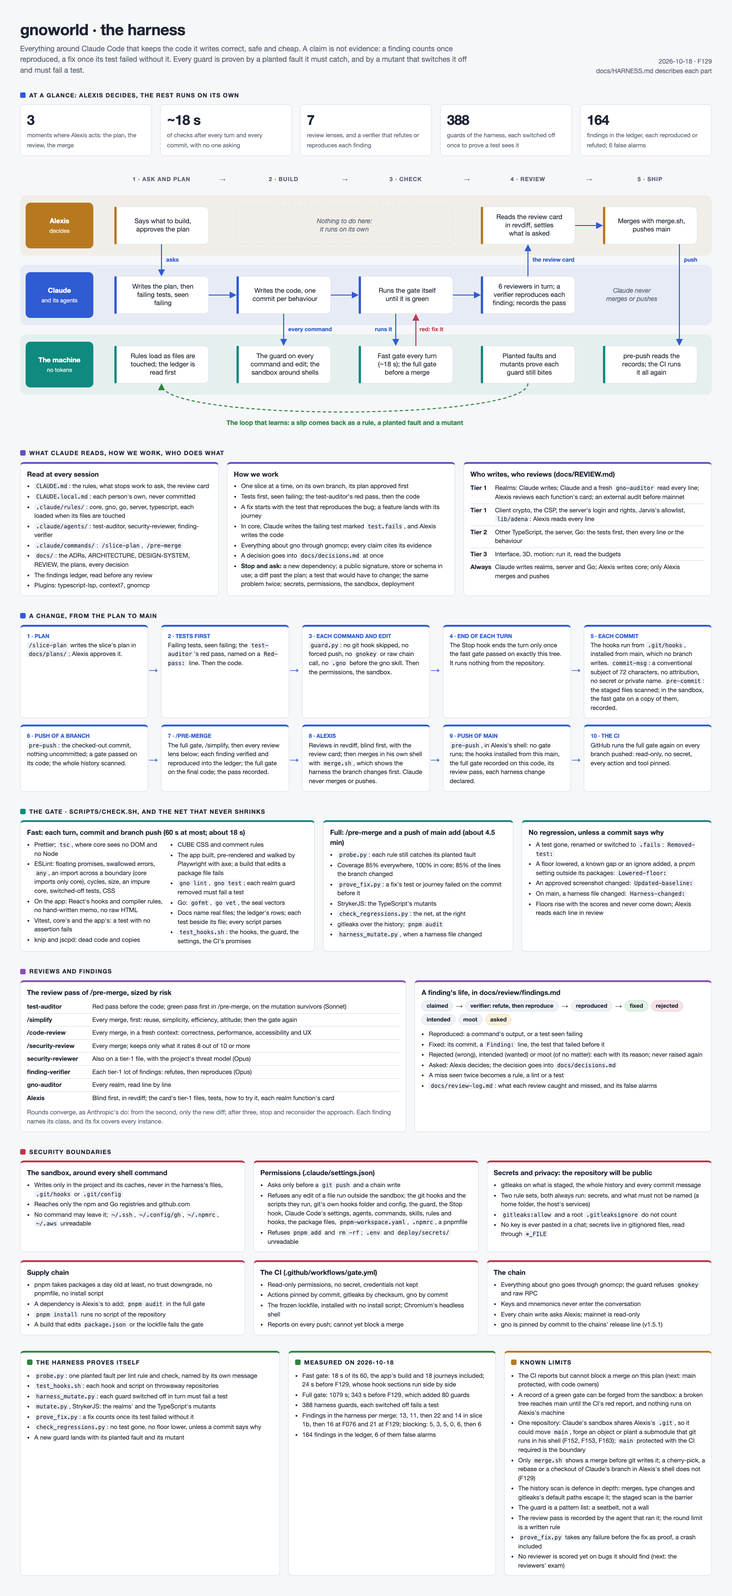
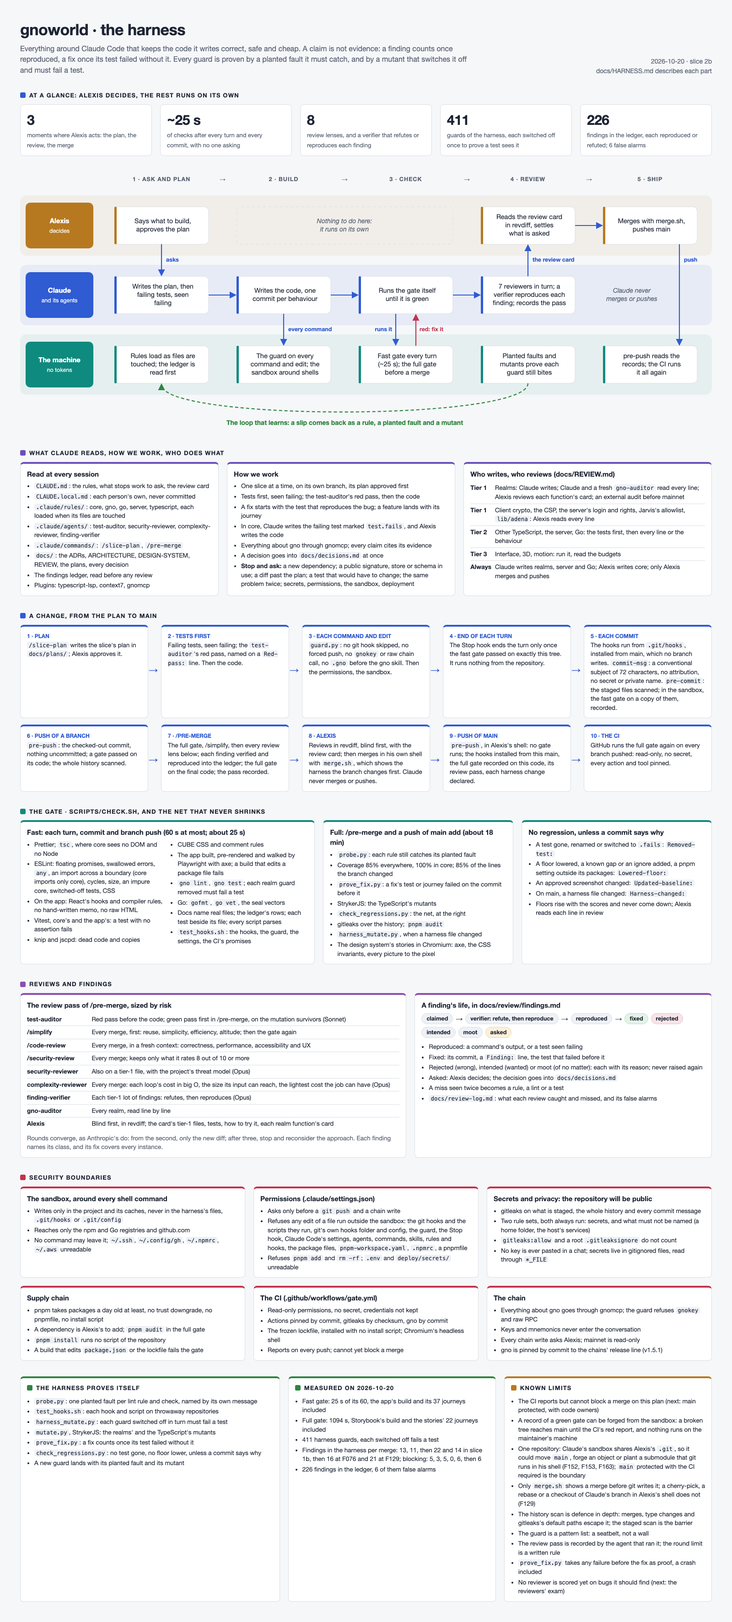
docs(harness): the complexity lens and today's measures in the picture
The picture and HARNESS.md gain the complexity-reviewer (8 lenses, 7
reviewers), and the measures of 2026-10-20: the fast gate 25 s with 37
journeys, the full gate 1094 s with the stories and 411 guards, 226
findings. HARNESS.md's merge step was wrong: /simplify runs at every
merge, not only a slice's last, and /security-review was missing. The
full gate's card said about 4.5 min, true before F129; it is about 18.

diff --git a/docs/harness.html b/docs/harness.html
@@ -242,19 +242,19 @@
           it must catch, and by a mutant that switches it off and must fail a test.
         </p>
       </div>
-      <div class="asof">2026-10-18 · F129<br />docs/HARNESS.md describes each part</div>
+      <div class="asof">2026-10-20 · slice 2b<br />docs/HARNESS.md describes each part</div>
     </header>
 
     <section style="--accent: var(--flow)">
       <h2>At a glance: Alexis decides, the rest runs on its own</h2>
       <div class="grid numbers">
         <div class="number"><b>3</b><span>moments where Alexis acts: the plan, the review, the merge</span></div>
-        <div class="number"><b>~18 s</b><span>of checks after every turn and every commit, with no one asking</span></div>
-        <div class="number"><b>7</b><span>review lenses, and a verifier that refutes or reproduces each finding</span></div>
-        <div class="number"><b>388</b><span>guards of the harness, each switched off once to prove a test sees it</span></div>
-        <div class="number"><b>164</b><span>findings in the ledger, each reproduced or refuted; 6 false alarms</span></div>
+        <div class="number"><b>~25 s</b><span>of checks after every turn and every commit, with no one asking</span></div>
+        <div class="number"><b>8</b><span>review lenses, and a verifier that refutes or reproduces each finding</span></div>
+        <div class="number"><b>411</b><span>guards of the harness, each switched off once to prove a test sees it</span></div>
+        <div class="number"><b>226</b><span>findings in the ledger, each reproduced or refuted; 6 false alarms</span></div>
       </div>
-      <div class="glance"><svg viewBox="0 0 1512 584" role="img" aria-label="Alexis decides at three moments; Claude and its agents write and review; the machine checks every step; a slip becomes a new guard"><defs><marker id="head-a" viewBox="0 0 10 10" refX="8" refY="5" markerWidth="7" markerHeight="7" orient="auto"><path class="ha" d="M0,0 L10,5 L0,10 z"/></marker><marker id="head-r" viewBox="0 0 10 10" refX="8" refY="5" markerWidth="7" markerHeight="7" orient="auto"><path class="hr" d="M0,0 L10,5 L0,10 z"/></marker><marker id="head-g" viewBox="0 0 10 10" refX="8" refY="5" markerWidth="7" markerHeight="7" orient="auto"><path class="hg" d="M0,0 L10,5 L0,10 z"/></marker></defs><rect class="band human" x="0" y="64" width="1512" height="132" rx="14"/><rect class="who human" x="12" y="80" width="148" height="100" rx="10"/><text class="wn" text-anchor="middle" dominant-baseline="middle"><tspan x="86" y="121">Alexis</tspan></text><text class="wr" text-anchor="middle" dominant-baseline="middle"><tspan x="86" y="143">decides</tspan></text><rect class="band agent" x="0" y="216" width="1512" height="132" rx="14"/><rect class="who agent" x="12" y="232" width="148" height="100" rx="10"/><text class="wn" text-anchor="middle" dominant-baseline="middle"><tspan x="86" y="273">Claude</tspan></text><text class="wr" text-anchor="middle" dominant-baseline="middle"><tspan x="86" y="295">and its agents</tspan></text><rect class="band machine" x="0" y="368" width="1512" height="132" rx="14"/><rect class="who machine" x="12" y="384" width="148" height="100" rx="10"/><text class="wn" text-anchor="middle" dominant-baseline="middle"><tspan x="86" y="425">The machine</tspan></text><text class="wr" text-anchor="middle" dominant-baseline="middle"><tspan x="86" y="447">no tokens</tspan></text><text class="ph" text-anchor="middle" dominant-baseline="middle"><tspan x="309" y="30">1 · ASK AND PLAN</tspan></text><text class="ph" text-anchor="middle" dominant-baseline="middle"><tspan x="576" y="30">2 · BUILD</tspan></text><text class="ph" text-anchor="middle" dominant-baseline="middle"><tspan x="443" y="30">→</tspan></text><text class="ph" text-anchor="middle" dominant-baseline="middle"><tspan x="843" y="30">3 · CHECK</tspan></text><text class="ph" text-anchor="middle" dominant-baseline="middle"><tspan x="710" y="30">→</tspan></text><text class="ph" text-anchor="middle" dominant-baseline="middle"><tspan x="1110" y="30">4 · REVIEW</tspan></text><text class="ph" text-anchor="middle" dominant-baseline="middle"><tspan x="977" y="30">→</tspan></text><text class="ph" text-anchor="middle" dominant-baseline="middle"><tspan x="1377" y="30">5 · SHIP</tspan></text><text class="ph" text-anchor="middle" dominant-baseline="middle"><tspan x="1244" y="30">→</tspan></text><rect class="box human" x="206" y="89" width="206" height="82" rx="10"/><rect class="bar human" x="206" y="89" width="5" height="82" rx="2"/><text class="t" text-anchor="middle" dominant-baseline="middle"><tspan x="312" y="121">Says what to build,</tspan><tspan x="312" y="139">approves the plan</tspan></text><rect class="free" x="473" y="89" width="473" height="82" rx="10"/><text class="m" text-anchor="middle" dominant-baseline="middle"><tspan x="709" y="121">Nothing to do here:</tspan><tspan x="709" y="139">it runs on its own</tspan></text><rect class="box human" x="1007" y="89" width="206" height="82" rx="10"/><rect class="bar human" x="1007" y="89" width="5" height="82" rx="2"/><text class="t" text-anchor="middle" dominant-baseline="middle"><tspan x="1113" y="112">Reads the review card</tspan><tspan x="1113" y="130">in revdiff, settles</tspan><tspan x="1113" y="148">what is asked</tspan></text><rect class="box human" x="1274" y="89" width="206" height="82" rx="10"/><rect class="bar human" x="1274" y="89" width="5" height="82" rx="2"/><text class="t" text-anchor="middle" dominant-baseline="middle"><tspan x="1380" y="121">Merges with merge.sh,</tspan><tspan x="1380" y="139">pushes main</tspan></text><rect class="box agent" x="206" y="241" width="206" height="82" rx="10"/><rect class="bar agent" x="206" y="241" width="5" height="82" rx="2"/><text class="t" text-anchor="middle" dominant-baseline="middle"><tspan x="312" y="264">Writes the plan, then</tspan><tspan x="312" y="282">failing tests, seen</tspan><tspan x="312" y="300">failing</tspan></text><rect class="box agent" x="473" y="241" width="206" height="82" rx="10"/><rect class="bar agent" x="473" y="241" width="5" height="82" rx="2"/><text class="t" text-anchor="middle" dominant-baseline="middle"><tspan x="579" y="273">Writes the code, one</tspan><tspan x="579" y="291">commit per behaviour</tspan></text><rect class="box agent" x="740" y="241" width="206" height="82" rx="10"/><rect class="bar agent" x="740" y="241" width="5" height="82" rx="2"/><text class="t" text-anchor="middle" dominant-baseline="middle"><tspan x="846" y="273">Runs the gate itself</tspan><tspan x="846" y="291">until it is green</tspan></text><rect class="box agent" x="1007" y="241" width="206" height="82" rx="10"/><rect class="bar agent" x="1007" y="241" width="5" height="82" rx="2"/><text class="t" text-anchor="middle" dominant-baseline="middle"><tspan x="1113" y="264">6 reviewers in turn; a</tspan><tspan x="1113" y="282">verifier reproduces each</tspan><tspan x="1113" y="300">finding; records the pass</tspan></text><text class="m" text-anchor="middle" dominant-baseline="middle"><tspan x="1337" y="273">Claude never</tspan><tspan x="1337" y="291">merges or pushes</tspan></text><rect class="box machine" x="206" y="393" width="206" height="82" rx="10"/><rect class="bar machine" x="206" y="393" width="5" height="82" rx="2"/><text class="t" text-anchor="middle" dominant-baseline="middle"><tspan x="312" y="416">Rules load as files are</tspan><tspan x="312" y="434">touched; the ledger is</tspan><tspan x="312" y="452">read first</tspan></text><rect class="box machine" x="473" y="393" width="206" height="82" rx="10"/><rect class="bar machine" x="473" y="393" width="5" height="82" rx="2"/><text class="t" text-anchor="middle" dominant-baseline="middle"><tspan x="579" y="416">The guard on every</tspan><tspan x="579" y="434">command and edit; the</tspan><tspan x="579" y="452">sandbox around shells</tspan></text><rect class="box machine" x="740" y="393" width="206" height="82" rx="10"/><rect class="bar machine" x="740" y="393" width="5" height="82" rx="2"/><text class="t" text-anchor="middle" dominant-baseline="middle"><tspan x="846" y="416">Fast gate every turn</tspan><tspan x="846" y="434">(~18 s); the full gate</tspan><tspan x="846" y="452">before a merge</tspan></text><rect class="box machine" x="1007" y="393" width="206" height="82" rx="10"/><rect class="bar machine" x="1007" y="393" width="5" height="82" rx="2"/><text class="t" text-anchor="middle" dominant-baseline="middle"><tspan x="1113" y="416">Planted faults and</tspan><tspan x="1113" y="434">mutants prove each</tspan><tspan x="1113" y="452">guard still bites</tspan></text><rect class="box machine" x="1274" y="393" width="206" height="82" rx="10"/><rect class="bar machine" x="1274" y="393" width="5" height="82" rx="2"/><text class="t" text-anchor="middle" dominant-baseline="middle"><tspan x="1380" y="416">pre-push reads the</tspan><tspan x="1380" y="434">records; the CI runs</tspan><tspan x="1380" y="452">it all again</tspan></text><path class="a" d="M309 171 V238" marker-end="url(#head-a)"/><text class="l" text-anchor="start" dominant-baseline="middle"><tspan x="319" y="206">asks</tspan></text><path class="a" d="M412 282 H470" marker-end="url(#head-a)"/><path class="a" d="M679 282 H737" marker-end="url(#head-a)"/><path class="a" d="M946 282 H1004" marker-end="url(#head-a)"/><path class="a" d="M576 323 V390" marker-end="url(#head-a)"/><text class="l" text-anchor="start" dominant-baseline="middle"><tspan x="586" y="358">every command</tspan></text><path class="a" d="M821 323 V390" marker-end="url(#head-a)"/><text class="l" text-anchor="end" dominant-baseline="middle"><tspan x="813" y="358">runs it</tspan></text><path class="r" d="M865 393 V326" marker-end="url(#head-r)"/><text class="lr" text-anchor="start" dominant-baseline="middle"><tspan x="873" y="358">red: fix it</tspan></text><path class="a" d="M1110 241 V174" marker-end="url(#head-a)"/><text class="l" text-anchor="start" dominant-baseline="middle"><tspan x="1120" y="206">the review card</tspan></text><path class="a" d="M1213 130 H1271" marker-end="url(#head-a)"/><path class="a" d="M1441 171 V390" marker-end="url(#head-a)"/><text class="l" text-anchor="start" dominant-baseline="middle"><tspan x="1451" y="206">push</tspan></text><path class="g" d="M1110 475 C1110 558 309 558 309 478" marker-end="url(#head-g)"/><text class="lg" text-anchor="middle" dominant-baseline="middle"><tspan x="709.5" y="562">The loop that learns: a slip comes back as a rule, a planted fault and a mutant</tspan></text></svg></div>
+      <div class="glance"><svg viewBox="0 0 1512 584" role="img" aria-label="Alexis decides at three moments; Claude and its agents write and review; the machine checks every step; a slip becomes a new guard"><defs><marker id="head-a" viewBox="0 0 10 10" refX="8" refY="5" markerWidth="7" markerHeight="7" orient="auto"><path class="ha" d="M0,0 L10,5 L0,10 z"/></marker><marker id="head-r" viewBox="0 0 10 10" refX="8" refY="5" markerWidth="7" markerHeight="7" orient="auto"><path class="hr" d="M0,0 L10,5 L0,10 z"/></marker><marker id="head-g" viewBox="0 0 10 10" refX="8" refY="5" markerWidth="7" markerHeight="7" orient="auto"><path class="hg" d="M0,0 L10,5 L0,10 z"/></marker></defs><rect class="band human" x="0" y="64" width="1512" height="132" rx="14"/><rect class="who human" x="12" y="80" width="148" height="100" rx="10"/><text class="wn" text-anchor="middle" dominant-baseline="middle"><tspan x="86" y="121">Alexis</tspan></text><text class="wr" text-anchor="middle" dominant-baseline="middle"><tspan x="86" y="143">decides</tspan></text><rect class="band agent" x="0" y="216" width="1512" height="132" rx="14"/><rect class="who agent" x="12" y="232" width="148" height="100" rx="10"/><text class="wn" text-anchor="middle" dominant-baseline="middle"><tspan x="86" y="273">Claude</tspan></text><text class="wr" text-anchor="middle" dominant-baseline="middle"><tspan x="86" y="295">and its agents</tspan></text><rect class="band machine" x="0" y="368" width="1512" height="132" rx="14"/><rect class="who machine" x="12" y="384" width="148" height="100" rx="10"/><text class="wn" text-anchor="middle" dominant-baseline="middle"><tspan x="86" y="425">The machine</tspan></text><text class="wr" text-anchor="middle" dominant-baseline="middle"><tspan x="86" y="447">no tokens</tspan></text><text class="ph" text-anchor="middle" dominant-baseline="middle"><tspan x="309" y="30">1 · ASK AND PLAN</tspan></text><text class="ph" text-anchor="middle" dominant-baseline="middle"><tspan x="576" y="30">2 · BUILD</tspan></text><text class="ph" text-anchor="middle" dominant-baseline="middle"><tspan x="443" y="30">→</tspan></text><text class="ph" text-anchor="middle" dominant-baseline="middle"><tspan x="843" y="30">3 · CHECK</tspan></text><text class="ph" text-anchor="middle" dominant-baseline="middle"><tspan x="710" y="30">→</tspan></text><text class="ph" text-anchor="middle" dominant-baseline="middle"><tspan x="1110" y="30">4 · REVIEW</tspan></text><text class="ph" text-anchor="middle" dominant-baseline="middle"><tspan x="977" y="30">→</tspan></text><text class="ph" text-anchor="middle" dominant-baseline="middle"><tspan x="1377" y="30">5 · SHIP</tspan></text><text class="ph" text-anchor="middle" dominant-baseline="middle"><tspan x="1244" y="30">→</tspan></text><rect class="box human" x="206" y="89" width="206" height="82" rx="10"/><rect class="bar human" x="206" y="89" width="5" height="82" rx="2"/><text class="t" text-anchor="middle" dominant-baseline="middle"><tspan x="312" y="121">Says what to build,</tspan><tspan x="312" y="139">approves the plan</tspan></text><rect class="free" x="473" y="89" width="473" height="82" rx="10"/><text class="m" text-anchor="middle" dominant-baseline="middle"><tspan x="709" y="121">Nothing to do here:</tspan><tspan x="709" y="139">it runs on its own</tspan></text><rect class="box human" x="1007" y="89" width="206" height="82" rx="10"/><rect class="bar human" x="1007" y="89" width="5" height="82" rx="2"/><text class="t" text-anchor="middle" dominant-baseline="middle"><tspan x="1113" y="112">Reads the review card</tspan><tspan x="1113" y="130">in revdiff, settles</tspan><tspan x="1113" y="148">what is asked</tspan></text><rect class="box human" x="1274" y="89" width="206" height="82" rx="10"/><rect class="bar human" x="1274" y="89" width="5" height="82" rx="2"/><text class="t" text-anchor="middle" dominant-baseline="middle"><tspan x="1380" y="121">Merges with merge.sh,</tspan><tspan x="1380" y="139">pushes main</tspan></text><rect class="box agent" x="206" y="241" width="206" height="82" rx="10"/><rect class="bar agent" x="206" y="241" width="5" height="82" rx="2"/><text class="t" text-anchor="middle" dominant-baseline="middle"><tspan x="312" y="264">Writes the plan, then</tspan><tspan x="312" y="282">failing tests, seen</tspan><tspan x="312" y="300">failing</tspan></text><rect class="box agent" x="473" y="241" width="206" height="82" rx="10"/><rect class="bar agent" x="473" y="241" width="5" height="82" rx="2"/><text class="t" text-anchor="middle" dominant-baseline="middle"><tspan x="579" y="273">Writes the code, one</tspan><tspan x="579" y="291">commit per behaviour</tspan></text><rect class="box agent" x="740" y="241" width="206" height="82" rx="10"/><rect class="bar agent" x="740" y="241" width="5" height="82" rx="2"/><text class="t" text-anchor="middle" dominant-baseline="middle"><tspan x="846" y="273">Runs the gate itself</tspan><tspan x="846" y="291">until it is green</tspan></text><rect class="box agent" x="1007" y="241" width="206" height="82" rx="10"/><rect class="bar agent" x="1007" y="241" width="5" height="82" rx="2"/><text class="t" text-anchor="middle" dominant-baseline="middle"><tspan x="1113" y="264">7 reviewers in turn; a</tspan><tspan x="1113" y="282">verifier reproduces each</tspan><tspan x="1113" y="300">finding; records the pass</tspan></text><text class="m" text-anchor="middle" dominant-baseline="middle"><tspan x="1337" y="273">Claude never</tspan><tspan x="1337" y="291">merges or pushes</tspan></text><rect class="box machine" x="206" y="393" width="206" height="82" rx="10"/><rect class="bar machine" x="206" y="393" width="5" height="82" rx="2"/><text class="t" text-anchor="middle" dominant-baseline="middle"><tspan x="312" y="416">Rules load as files are</tspan><tspan x="312" y="434">touched; the ledger is</tspan><tspan x="312" y="452">read first</tspan></text><rect class="box machine" x="473" y="393" width="206" height="82" rx="10"/><rect class="bar machine" x="473" y="393" width="5" height="82" rx="2"/><text class="t" text-anchor="middle" dominant-baseline="middle"><tspan x="579" y="416">The guard on every</tspan><tspan x="579" y="434">command and edit; the</tspan><tspan x="579" y="452">sandbox around shells</tspan></text><rect class="box machine" x="740" y="393" width="206" height="82" rx="10"/><rect class="bar machine" x="740" y="393" width="5" height="82" rx="2"/><text class="t" text-anchor="middle" dominant-baseline="middle"><tspan x="846" y="416">Fast gate every turn</tspan><tspan x="846" y="434">(~25 s); the full gate</tspan><tspan x="846" y="452">before a merge</tspan></text><rect class="box machine" x="1007" y="393" width="206" height="82" rx="10"/><rect class="bar machine" x="1007" y="393" width="5" height="82" rx="2"/><text class="t" text-anchor="middle" dominant-baseline="middle"><tspan x="1113" y="416">Planted faults and</tspan><tspan x="1113" y="434">mutants prove each</tspan><tspan x="1113" y="452">guard still bites</tspan></text><rect class="box machine" x="1274" y="393" width="206" height="82" rx="10"/><rect class="bar machine" x="1274" y="393" width="5" height="82" rx="2"/><text class="t" text-anchor="middle" dominant-baseline="middle"><tspan x="1380" y="416">pre-push reads the</tspan><tspan x="1380" y="434">records; the CI runs</tspan><tspan x="1380" y="452">it all again</tspan></text><path class="a" d="M309 171 V238" marker-end="url(#head-a)"/><text class="l" text-anchor="start" dominant-baseline="middle"><tspan x="319" y="206">asks</tspan></text><path class="a" d="M412 282 H470" marker-end="url(#head-a)"/><path class="a" d="M679 282 H737" marker-end="url(#head-a)"/><path class="a" d="M946 282 H1004" marker-end="url(#head-a)"/><path class="a" d="M576 323 V390" marker-end="url(#head-a)"/><text class="l" text-anchor="start" dominant-baseline="middle"><tspan x="586" y="358">every command</tspan></text><path class="a" d="M821 323 V390" marker-end="url(#head-a)"/><text class="l" text-anchor="end" dominant-baseline="middle"><tspan x="813" y="358">runs it</tspan></text><path class="r" d="M865 393 V326" marker-end="url(#head-r)"/><text class="lr" text-anchor="start" dominant-baseline="middle"><tspan x="873" y="358">red: fix it</tspan></text><path class="a" d="M1110 241 V174" marker-end="url(#head-a)"/><text class="l" text-anchor="start" dominant-baseline="middle"><tspan x="1120" y="206">the review card</tspan></text><path class="a" d="M1213 130 H1271" marker-end="url(#head-a)"/><path class="a" d="M1441 171 V390" marker-end="url(#head-a)"/><text class="l" text-anchor="start" dominant-baseline="middle"><tspan x="1451" y="206">push</tspan></text><path class="g" d="M1110 475 C1110 558 309 558 309 478" marker-end="url(#head-g)"/><text class="lg" text-anchor="middle" dominant-baseline="middle"><tspan x="709.5" y="562">The loop that learns: a slip comes back as a rule, a planted fault and a mutant</tspan></text></svg></div>
     </section>
 
     <section style="--accent: var(--read)">
@@ -266,7 +266,7 @@
             <li><code>CLAUDE.md</code>: the rules, what stops work to ask, the review card</li>
             <li><code>CLAUDE.local.md</code>: each person's own, never committed</li>
             <li><code>.claude/rules/</code>: core, gno, go, server, typescript, each loaded when its files are touched</li>
-            <li><code>.claude/agents/</code>: test-auditor, security-reviewer, finding-verifier</li>
+            <li><code>.claude/agents/</code>: test-auditor, security-reviewer, complexity-reviewer, finding-verifier</li>
             <li><code>.claude/commands/</code>: <code>/slice-plan</code>, <code>/pre-merge</code></li>
             <li><code>docs/</code>: the ADRs, ARCHITECTURE, DESIGN-SYSTEM, REVIEW, the plans, every decision</li>
             <li>The findings ledger, read before any review</li>
@@ -366,7 +366,7 @@
       <h2>The gate · scripts/check.sh, and the net that never shrinks</h2>
       <div class="grid" style="grid-template-columns: 1.55fr 1fr 1fr">
         <div class="card">
-          <h3>Fast: each turn, commit and branch push (60 s at most; about 18 s)</h3>
+          <h3>Fast: each turn, commit and branch push (60 s at most; about 25 s)</h3>
           <ul class="cols">
             <li>Prettier; <code>tsc</code>, where core sees no DOM and no Node</li>
             <li>ESLint: floating promises, swallowed errors, <code>any</code>, an import across a boundary (core imports only core), cycles, size, an impure core, switched-off tests, CSS</li>
@@ -382,7 +382,7 @@
           </ul>
         </div>
         <div class="card">
-          <h3>Full: /pre-merge and a push of main add (about 4.5 min)</h3>
+          <h3>Full: /pre-merge and a push of main add (about 18 min)</h3>
           <ul>
             <li><code>probe.py</code>: each rule still catches its planted fault</li>
             <li>Coverage 85% everywhere, 100% in core; 85% of the lines the branch changed</li>
@@ -391,6 +391,7 @@
             <li><code>check_regressions.py</code>: the net, at the right</li>
             <li>gitleaks over the history; <code>pnpm audit</code></li>
             <li><code>harness_mutate.py</code>, when a harness file changed</li>
+            <li>The design system's stories in Chromium: axe, the CSS invariants, every picture to the pixel</li>
           </ul>
         </div>
         <div class="card">
@@ -431,6 +432,10 @@
             <tr>
               <td>security-reviewer</td>
               <td>Also on a tier-1 file, with the project's threat model (Opus)</td>
+            </tr>
+            <tr>
+              <td>complexity-reviewer</td>
+              <td>Every merge: each loop's cost in big O, the size its input can reach, the lightest cost the job can have (Opus)</td>
             </tr>
             <tr>
               <td>finding-verifier</td>
@@ -537,13 +542,13 @@
           </ul>
         </div>
         <div class="card" style="--accent: var(--proof)">
-          <h2>Measured on 2026-10-18</h2>
+          <h2>Measured on 2026-10-20</h2>
           <ul>
-            <li>Fast gate: 18 s of its 60, the app's build and 18 journeys included; 24 s before F129, whose hook sections run side by side</li>
-            <li>Full gate: 1079 s; 343 s before F129, which added 80 guards</li>
-            <li>388 harness guards, each switched off fails a test</li>
+            <li>Fast gate: 25 s of its 60, the app's build and its 37 journeys included</li>
+            <li>Full gate: 1094 s, Storybook's build and the stories' 22 journeys included</li>
+            <li>411 harness guards, each switched off fails a test</li>
             <li>Findings in the harness per merge: 13, 11, then 22 and 14 in slice 1b, then 16 at F076 and 21 at F129; blocking: 5, 3, 5, 0, 6, then 6</li>
-            <li>164 findings in the ledger, 6 of them false alarms</li>
+            <li>226 findings in the ledger, 6 of them false alarms</li>
           </ul>
         </div>
         <div class="card" style="--accent: var(--limit)">

diff --git a/docs/HARNESS.md b/docs/HARNESS.md
@@ -48,10 +48,10 @@ node -e 'const { chromium } = require("./app/node_modules/@playwright/test"); ch
    uncommitted, a gate that passed on its code (in the sandbox it runs it; in Alexis's shell it
    reads the record), and scans the history for secrets.
 7. **Before a merge.** `/pre-merge` runs the full gate, the `test-auditor`'s green pass on the
-   mutation survivors, `/code-review`, the `security-reviewer` for a tier-1 change, and
-   `/simplify` at the last merge of a slice. The `finding-verifier` tries to refute each
-   tier-1 finding, then to reproduce it; each is then fixed or put to Alexis, and written to
-   `docs/review/findings.md`. Three review rounds at most per branch. Then it records a review
+   mutation survivors, `/simplify` and the gate again, then `/code-review`, `/security-review`
+   and the `complexity-reviewer` together, with the `security-reviewer` for a tier-1 change.
+   The `finding-verifier` tries to refute each tier-1 finding, then to reproduce it; each is
+   then fixed or put to Alexis, and written to `docs/review/findings.md`. Three review rounds at most per branch. Then it records a review
    pass (`scripts/review_pass.py`).
 8. **Alexis reviews,** blind first, in revdiff (`docs/REVIEW.md`).
 9. **Merge and push, by Alexis, in his own shell.** The merge is made locally, through
@@ -137,6 +137,7 @@ comes back is a regression. The review agents (`.claude/agents/`) report rows fo
 | `/code-review` | every merge | Claude Code's |
 | `/security-review` | every merge; it keeps only the findings it rates 8 out of 10 or more | Claude Code's |
 | `security-reviewer` | a merge touching a tier-1 file, beside `/security-review` | Opus |
+| `complexity-reviewer` | every merge: the cost in big O of each loop, against its input's size | Opus |
 | `finding-verifier` | after the review pass, on each tier-1 lot: refutes or reproduces each finding | Opus |
 | `gno-auditor` | every realm, line by line | gnomcp's |
 | Alexis | every merge, blind first | — |
@@ -213,7 +214,9 @@ Measured on this machine, 2026-10-18: the fast gate 19 to 24 s (budget 60 s), th
 build and its 18 journeys included; the full gate 263 s, with the harness mutation proving
 255 guards, then 343 s for 308 guards once F076 was built, and 1079 s for 388 once F129 was;
 the fast gate 18 s since the hook sections run side by side. On 2026-10-17 the fast gate took 10 to 13 s, before the app, and the harness
-mutation 118 s for 148 guards. Subagents run on Sonnet unless their file says otherwise;
+mutation 118 s for 148 guards. On 2026-10-20, at slice 2b: the fast gate 25 s with the app's 37
+journeys; the full gate 1094 s, with Storybook built, the stories' 22 journeys and 411 guards.
+Subagents run on Sonnet unless their file says otherwise;
 agents get the diff's path, never its content. A review reads the branch once, then only the
 diff of its fixes, three rounds at most; F076's three cost about 1.3 million tokens.
 
@@ -290,7 +293,7 @@ and the harness is frozen until a real bug crosses it.
 |---|---|
 | `CLAUDE.md`, `.claude/rules/` | the rules Claude reads; each area's file loads when its files are touched |
 | `.claude/settings.json` | permissions, the sandbox, the hooks, the plugins |
-| `.claude/agents/` | `test-auditor`, `security-reviewer`, `finding-verifier` |
+| `.claude/agents/` | `test-auditor`, `security-reviewer`, `complexity-reviewer`, `finding-verifier` |
 | `.claude/commands/` | `/slice-plan`, `/pre-merge` |
 | `.githooks/` | `commit-msg`, `pre-commit`, `pre-merge-commit`, `pre-push`; `records.sh`, the prints and the harness list they and `check.sh` share (F076); `merge.sh`, the merge that shows the harness first (F129) |
 | `scripts/install_hooks.sh` | puts `main`'s hooks and the scripts they run in `.git/hooks`; `--check` for `pre-push` (F129) |
